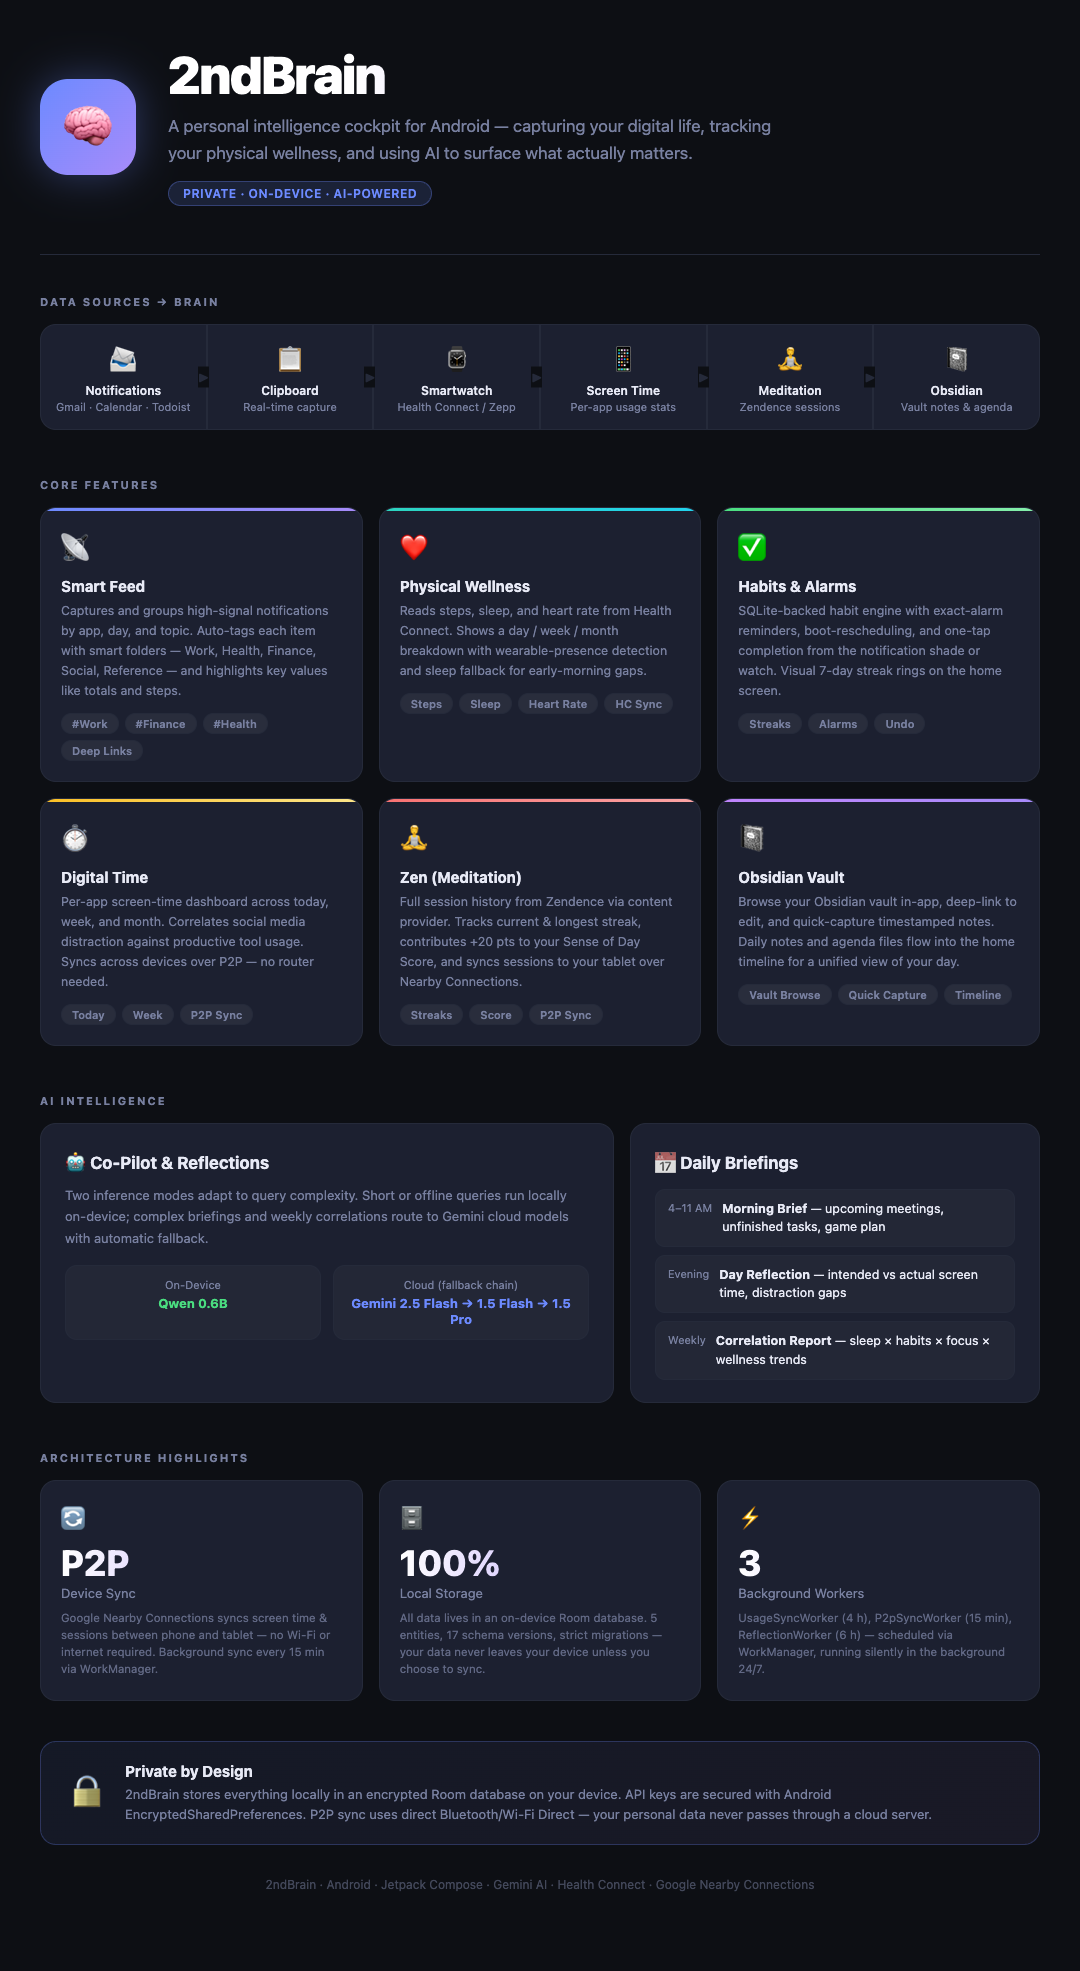
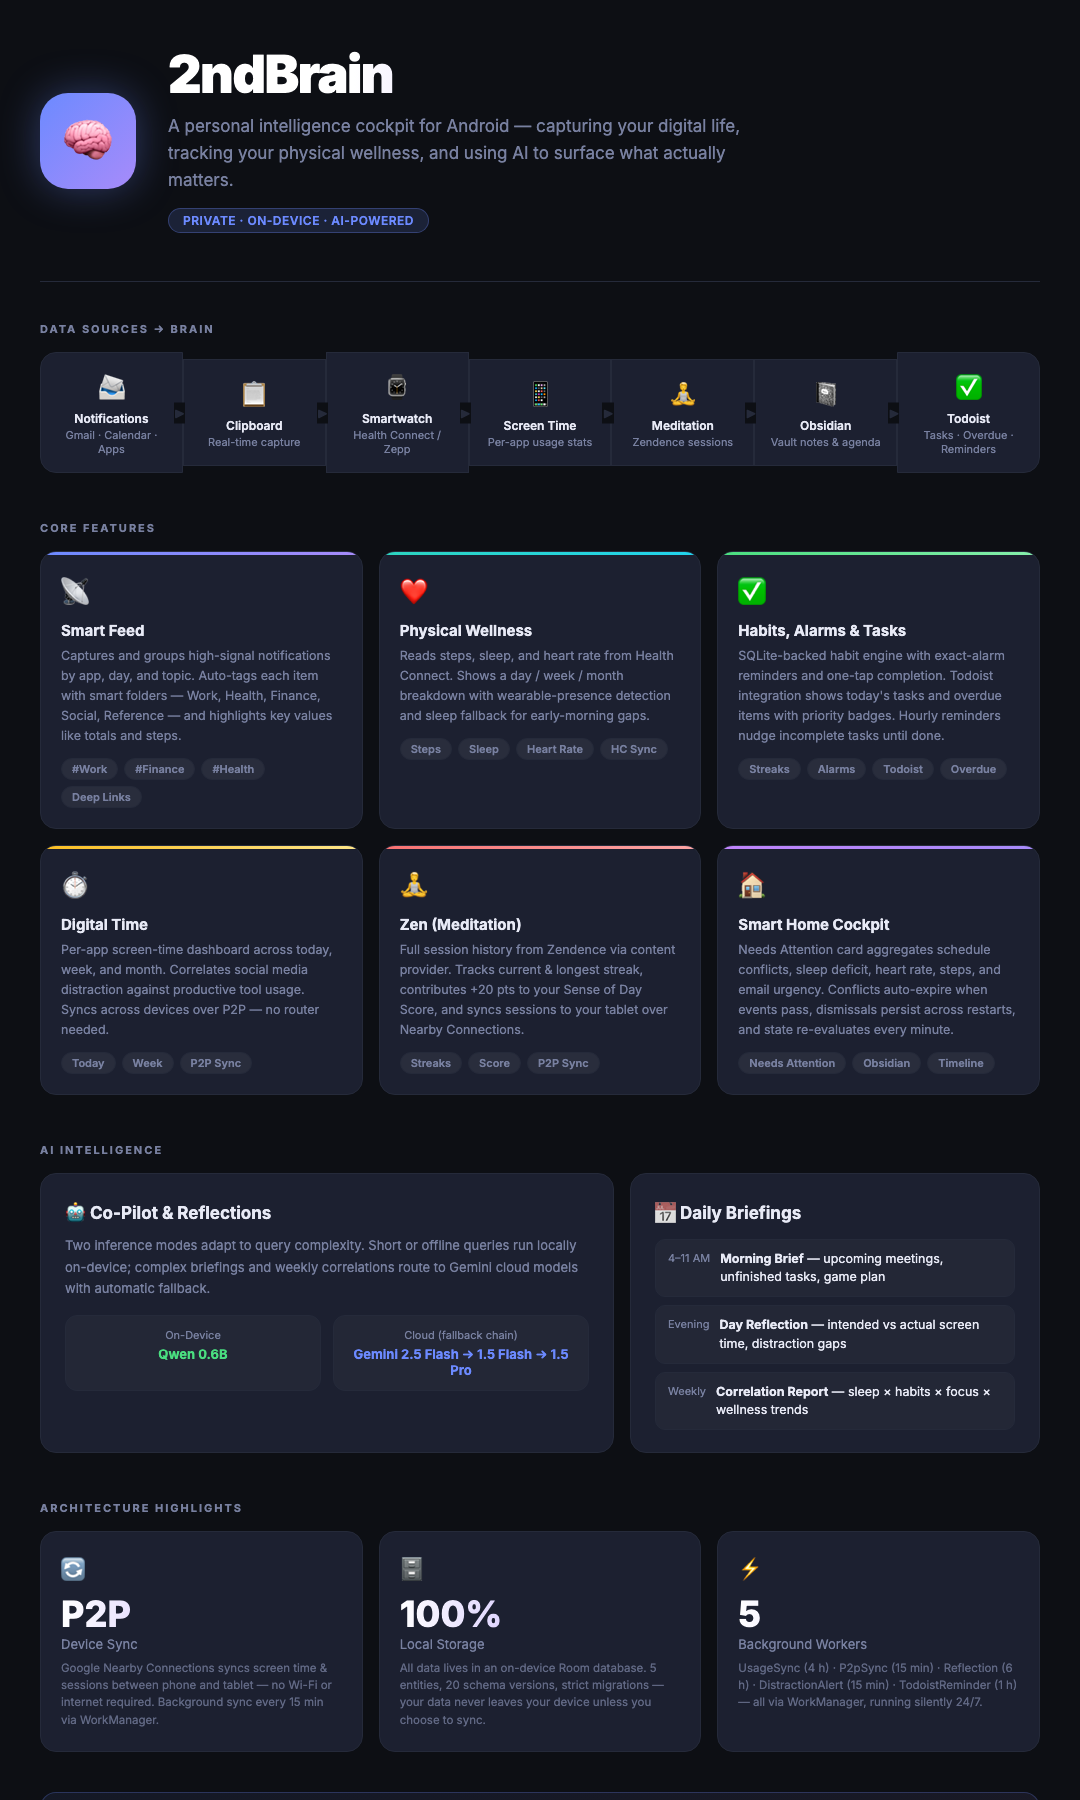
docs: update README and infographic for Todoist, cockpit, and worker changes
README:
- New Todoist Task Management section (today's tasks, overdue card,
  hourly reminders, unified completion)
- New Home Cockpit & Needs Attention section (auto-expiring conflicts,
  persistent dismissals, per-minute recomputation)
- Updated Project Structure to include core/todoist/
- Updated WorkManager worker table (DistractionAlert + TodoistReminder)

Infographic:
- Added Todoist to data pipeline
- Updated Habits card to cover Todoist integration
- Replaced Obsidian card with Smart Home Cockpit card
- Worker count updated 3 → 5
- DB schema version updated 17 → 20
- Regenerated infographic.png

diff --git a/infographic.html b/infographic.html
@@ -231,7 +231,7 @@
   <div class="pipeline-item">
     <div class="pi-icon">📨</div>
     <div class="pi-label">Notifications</div>
-    <div class="pi-sub">Gmail · Calendar · Todoist</div>
+    <div class="pi-sub">Gmail · Calendar · Apps</div>
   </div>
   <div class="pipeline-item">
     <div class="pi-icon">📋</div>
@@ -257,6 +257,11 @@
     <div class="pi-icon">📓</div>
     <div class="pi-label">Obsidian</div>
     <div class="pi-sub">Vault notes &amp; agenda</div>
+  </div>
+  <div class="pipeline-item">
+    <div class="pi-icon">✅</div>
+    <div class="pi-label">Todoist</div>
+    <div class="pi-sub">Tasks · Overdue · Reminders</div>
   </div>
 </div>
 
@@ -284,10 +289,10 @@
 
   <div class="feat green">
     <div class="feat-icon">✅</div>
-    <div class="feat-title">Habits &amp; Alarms</div>
-    <div class="feat-body">SQLite-backed habit engine with exact-alarm reminders, boot-rescheduling, and one-tap completion from the notification shade or watch. Visual 7-day streak rings on the home screen.</div>
+    <div class="feat-title">Habits, Alarms &amp; Tasks</div>
+    <div class="feat-body">SQLite-backed habit engine with exact-alarm reminders and one-tap completion. Todoist integration shows today's tasks and overdue items with priority badges. Hourly reminders nudge incomplete tasks until done.</div>
     <div class="feat-pills">
-      <span class="pill">Streaks</span><span class="pill">Alarms</span><span class="pill">Undo</span>
+      <span class="pill">Streaks</span><span class="pill">Alarms</span><span class="pill">Todoist</span><span class="pill">Overdue</span>
     </div>
   </div>
 
@@ -310,11 +315,11 @@
   </div>
 
   <div class="feat purple">
-    <div class="feat-icon">📓</div>
-    <div class="feat-title">Obsidian Vault</div>
-    <div class="feat-body">Browse your Obsidian vault in-app, deep-link to edit, and quick-capture timestamped notes. Daily notes and agenda files flow into the home timeline for a unified view of your day.</div>
+    <div class="feat-icon">🏠</div>
+    <div class="feat-title">Smart Home Cockpit</div>
+    <div class="feat-body">Needs Attention card aggregates schedule conflicts, sleep deficit, heart rate, steps, and email urgency. Conflicts auto-expire when events pass, dismissals persist across restarts, and state re-evaluates every minute.</div>
     <div class="feat-pills">
-      <span class="pill">Vault Browse</span><span class="pill">Quick Capture</span><span class="pill">Timeline</span>
+      <span class="pill">Needs Attention</span><span class="pill">Obsidian</span><span class="pill">Timeline</span>
     </div>
   </div>
 
@@ -369,13 +374,13 @@
     <div class="sc-icon">🗄️</div>
     <div class="sc-num">100%</div>
     <div class="sc-label">Local Storage</div>
-    <div class="sc-sub">All data lives in an on-device Room database. 5 entities, 17 schema versions, strict migrations — your data never leaves your device unless you choose to sync.</div>
+    <div class="sc-sub">All data lives in an on-device Room database. 5 entities, 20 schema versions, strict migrations — your data never leaves your device unless you choose to sync.</div>
   </div>
   <div class="stat-card">
     <div class="sc-icon">⚡</div>
-    <div class="sc-num">3</div>
+    <div class="sc-num">5</div>
     <div class="sc-label">Background Workers</div>
-    <div class="sc-sub">UsageSyncWorker (4 h), P2pSyncWorker (15 min), ReflectionWorker (6 h) — scheduled via WorkManager, running silently in the background 24/7.</div>
+    <div class="sc-sub">UsageSync (4 h) · P2pSync (15 min) · Reflection (6 h) · DistractionAlert (15 min) · TodoistReminder (1 h) — all via WorkManager, running silently 24/7.</div>
   </div>
 </div>
 

diff --git a/README.md b/README.md
@@ -29,12 +29,24 @@
 - **Streak & Performance Visualizer**: Cockpit presents a weekly progress strip featuring **7 beautifully styled circular HSL progress rings** representing routine completion over the past 7 days.
 - **AI Co-Pilot Integration**: Today's checked-off routines and alarms are automatically injected into the AI Reflection/Briefing prompt context so your co-pilot can track your physical habits.
 
+### 📋 Todoist Task Management
+- **Today's Tasks Panel**: Live Todoist tasks due today displayed on the Home cockpit with priority-color-coded checkboxes (red = urgent, orange = high, blue = medium). Complete tasks directly from the app.
+- **Overdue Actions Card**: Dedicated dashboard card showing the count of past-due Todoist tasks. Tapping opens a sheet listing each overdue item with its original due date highlighted in red and a one-tap complete button.
+- **Hourly Task Reminders**: WorkManager-backed hourly notifications (7 AM–10 PM) fire whenever incomplete tasks remain for today. The first reminder fires immediately on app open; subsequent ones are rate-limited to once per hour so you're nudged — not spammed.
+- **Unified Completion**: Completing a task from 2ndBrain closes it in Todoist via the REST API and removes it from both the today and overdue lists instantly — no refresh needed.
+
 ### 🧘 Zen (Meditation) — Powered by Zendence
 - **Zendence Integration**: Reads real meditation session data via a content provider bridge to the companion Zendence app.
 - **Session History**: Displays a full history of meditation sessions including duration, insight notes, and timestamps in a dedicated **Zen** tab.
 - **Streak Tracking**: Tracks your current and longest meditation streaks with a live streak indicator on the Home cockpit.
 - **Meditated Today indicator**: Home cockpit updates in real time to reflect whether you've meditated today, contributing to your Sense of Day Score (+20 pts).
 - **P2P Zen Sync**: Meditation sessions are automatically included in the Nearby Connections P2P sync payload. When a sync completes, the Zen tab refreshes instantly — no manual action required.
+
+### 🏠 Home Cockpit & Needs Attention
+- **Needs Attention Card**: Aggregates urgent signals — imminent calendar events (≤15 min), sleep deficit, elevated heart rate, low step count, overdue email, and schedule conflicts — into a single prioritised card with red/amber/green colour coding.
+- **Auto-Expiring Schedule Conflicts**: "Schedule Crunch" alerts automatically disappear once both conflicting events have passed — no stale warnings lingering all day.
+- **Persistent Dismissals**: Dismissed conflicts survive app restarts and auto-clear at midnight; each conflict ID is stored in SharedPreferences keyed by today's date.
+- **Live Recomputation**: Conflict state re-evaluates every minute via a ticker flow, so time-sensitive alerts stay accurate without requiring a data change to trigger a refresh.
 
 ### 🤖 AI Intelligence & Private Co-Pilot
 - **💬 Interactive Co-Pilot Chat**: A beautiful sidebar-driven bubble log to ask direct questions about your captures, clipboard logs, and daily usage. It pulls relevant DB context in real-time.
@@ -79,11 +91,12 @@
 - `ui/meditation/`: Zen tab displaying meditation session history and streaks.
 - `ui/settings/`: Sync controls, habit management, theme, and app monitoring configuration.
 - `core/sync/`: Nearby Connections P2P manager (usage + meditation payload) and WorkManager background sync workers.
-- `core/usage/`: `UsageStatsManager` local usage collection and SQLite usage database repository.
+- `core/usage/`: `UsageStatsManager` local usage collection, SQLite usage database repository, and `DistractionAlertWorker`.
 - `core/reflection/`: Gemini API, LiteRT on-device LLM picker, and briefing logic.
 - `core/capture/`: Notification listener service and clipboard manager with heuristic auto-tagging.
 - `core/health/`: Health Connect bridge for step count, sleep, and heart-rate tracking.
 - `core/meditation/`: Zendence content provider bridge and meditation session repository.
+- `core/todoist/`: Todoist REST API client (`TodoistRepository`), data model, and `TodoistReminderWorker` for hourly background reminders.
 
 ---
 